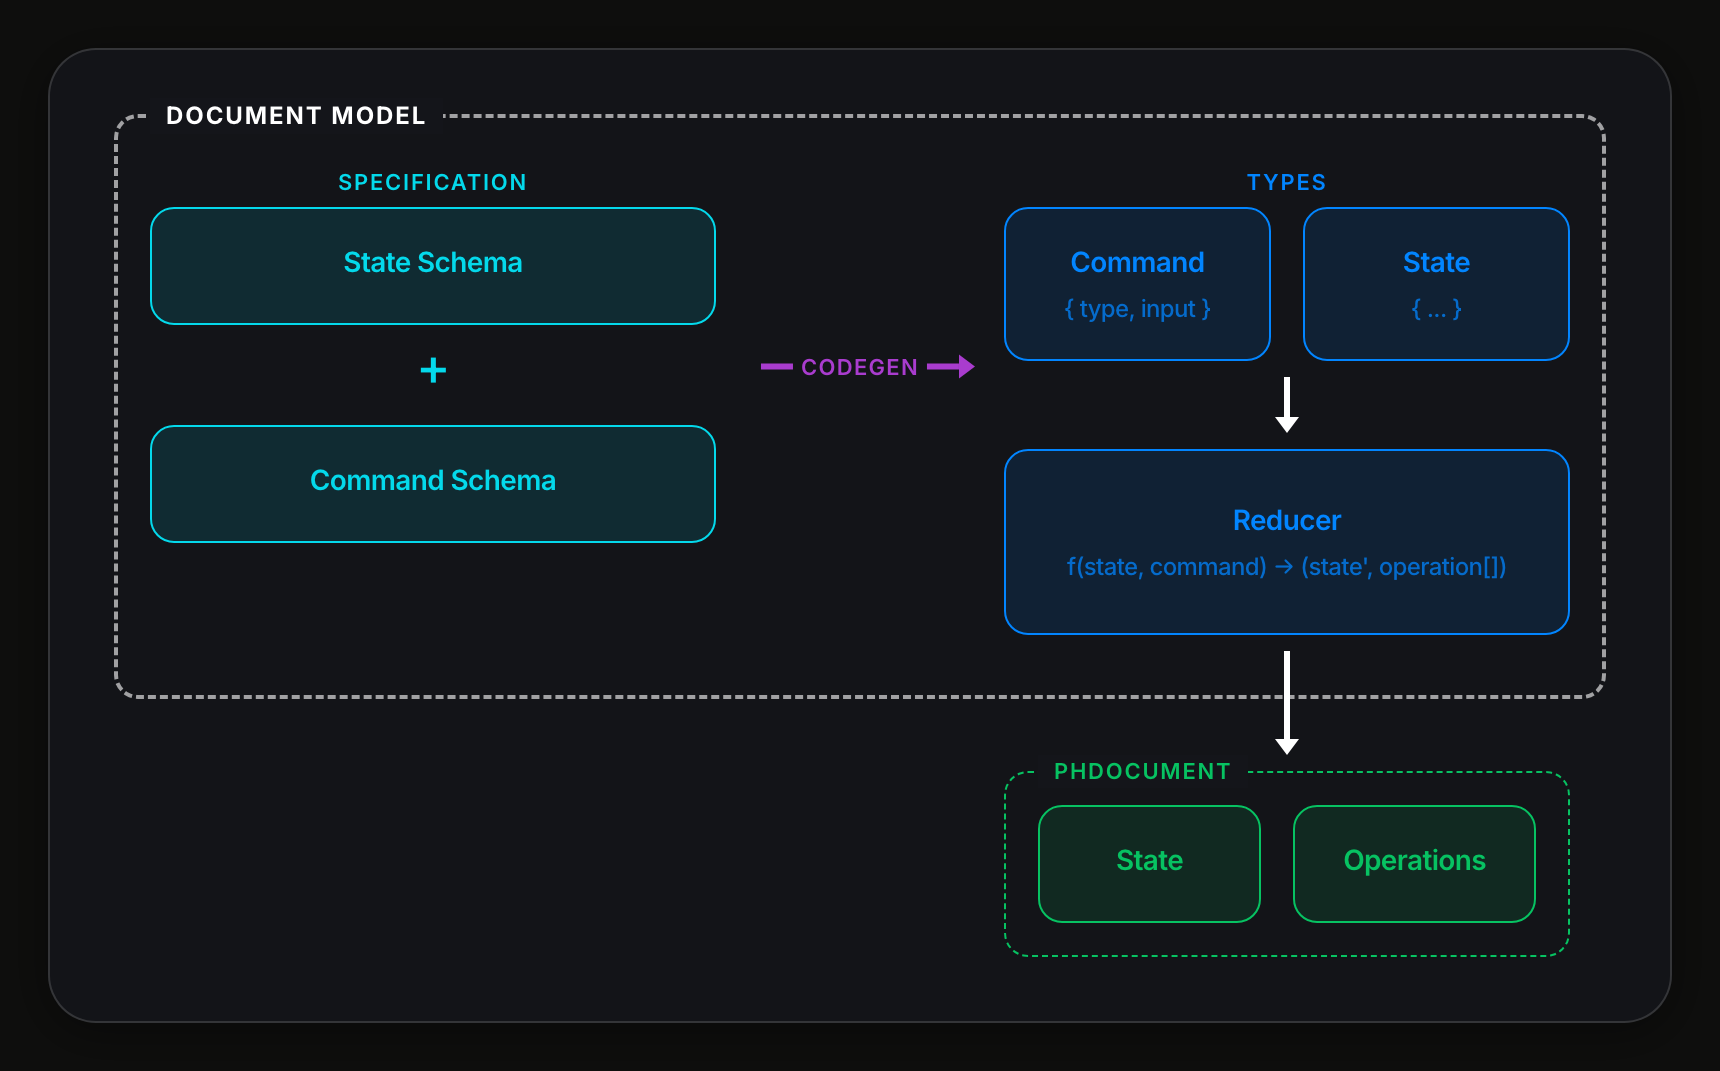
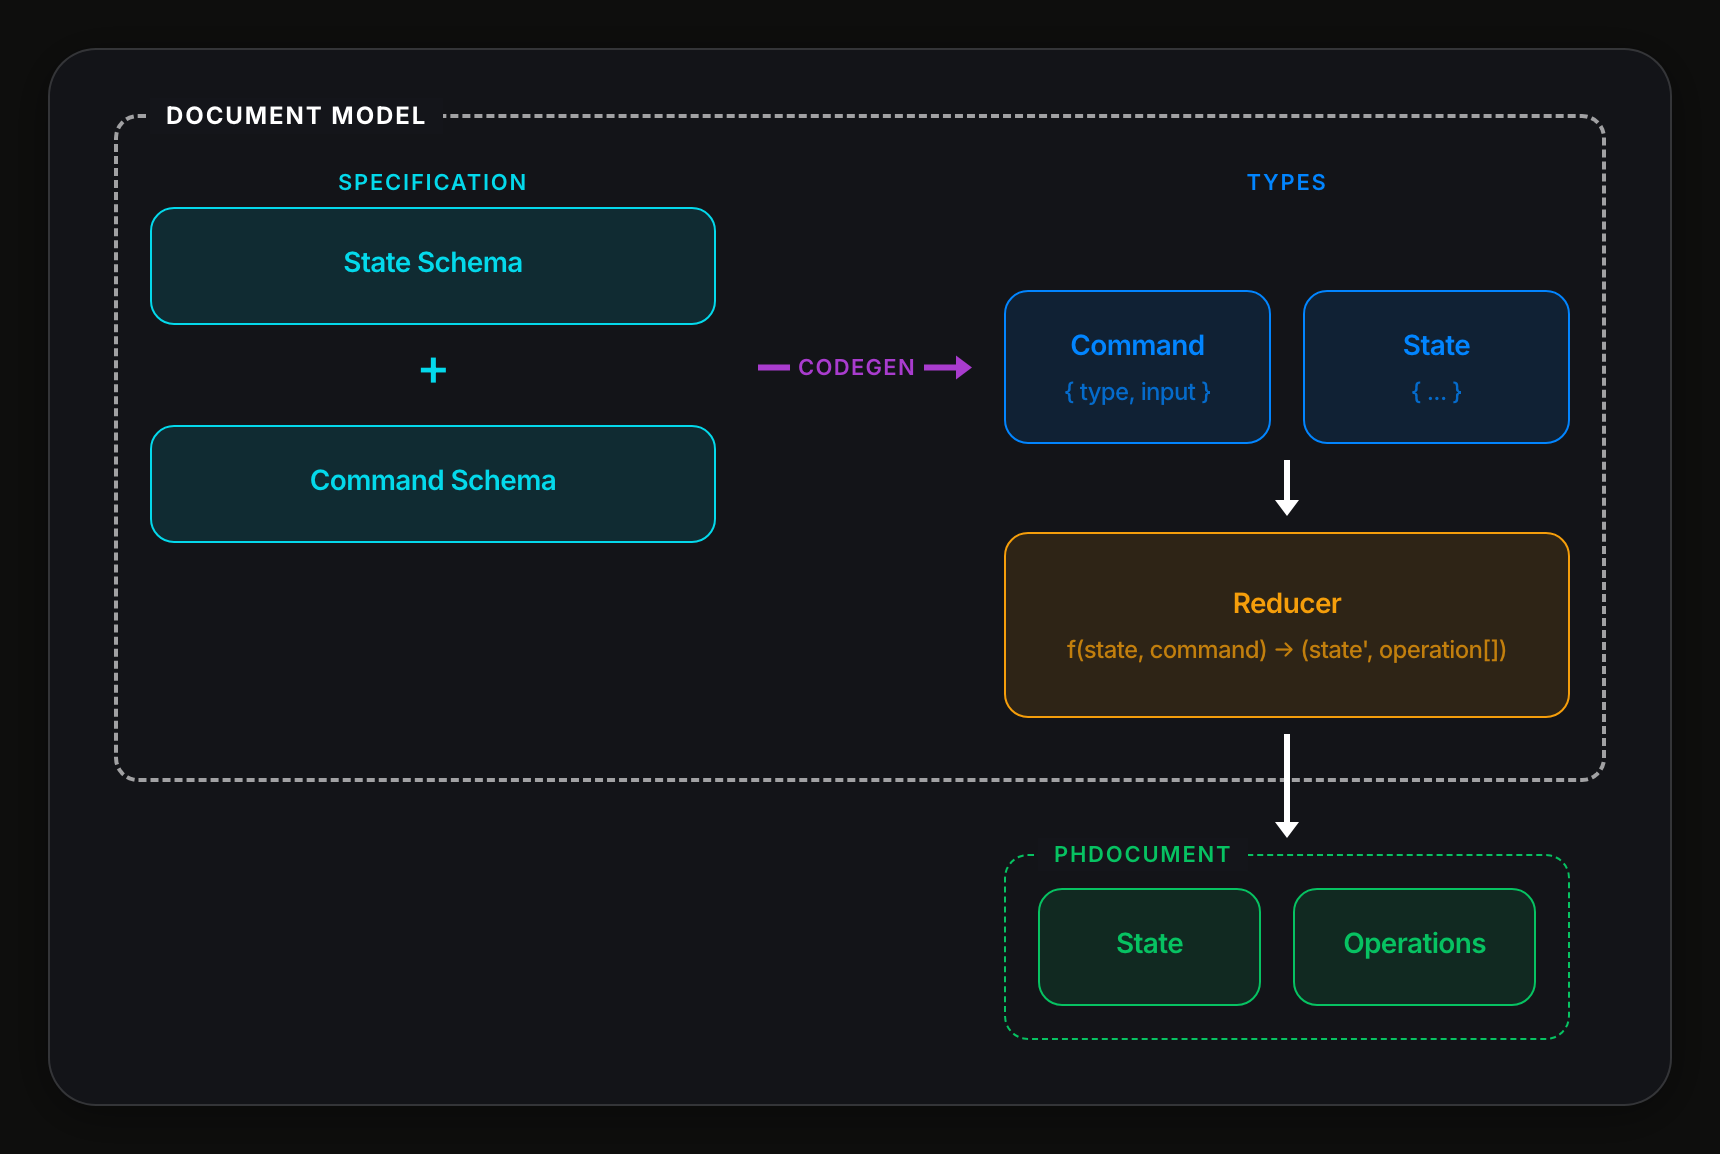
rebuild: the Document Model separates codegen from the reducer

diff --git a/diagrams/pages/document-model-architecture.html b/diagrams/pages/document-model-architecture.html
@@ -52,15 +52,14 @@
       gap: 0;
     }
 
-    /* Center bridge column — the arrow is placed on the plus's centre line by the
-       script at the bottom of the page. */
-    .col-bridge {
-      position: relative;
-    }
-    .col-bridge .h-arrow {
+    /* Center bridge column — empty; the codegen arrow hangs off the types row, which the
+       script at the bottom of the page drops onto the spec's centre line. */
+    .types-row { position: relative; }
+    .types-row .h-arrow {
       position: absolute;
-      left: 50%;
-      transform: translate(-50%, -50%);
+      top: 50%;
+      right: calc(100% + var(--space-lg));
+      transform: translateY(-50%);
     }
 
     /* The spec is a state schema AND an action schema, not one leading to the other */
@@ -87,6 +86,8 @@
     .box.accent-purple { border-color: var(--accent-purple); background: var(--accent-purple-bg); color: var(--accent-purple); }
     .box.accent-blue   { border-color: var(--accent-blue);   background: var(--accent-blue-bg);   color: var(--accent-blue); }
     .box.accent-green  { border-color: var(--accent-green);  background: var(--accent-green-bg);  color: var(--accent-green); }
+    /* The reducer is hand-written, not generated, so it does not share the types' colour */
+    .box.accent-amber  { border-color: #F59E0B; background: rgba(245, 158, 11, 0.12); color: #F59E0B; }
 
     .box-title {
       font-size: 14px;
@@ -279,18 +280,18 @@
             </div>
           </div>
 
-          <!-- Center Bridge -->
-          <div class="col-bridge">
+          <!-- Center Bridge: spacing only, the arrow itself sits with the types -->
+          <div class="col-bridge"></div>
+
+          <!-- Right Column: Reducer -->
+          <div class="col-reducer">
+           <div class="types-row" id="typesRow">
             <div class="h-arrow" id="codegenArrow">
               <div class="h-arrow-line"></div>
               <div class="h-arrow-label">Codegen</div>
               <div class="h-arrow-line has-head"></div>
             </div>
-          </div>
-
-          <!-- Right Column: Reducer -->
-          <div class="col-reducer">
-            <div class="type-group">
+            <div class="type-group" id="typeGroup">
               <div class="box accent-blue">
                 <div class="box-title">Command</div>
                 <div class="box-detail">{ type, input }</div>
@@ -300,8 +301,9 @@
                 <div class="box-detail">{ ... }</div>
               </div>
             </div>
+           </div>
             <div class="v-connector"></div>
-            <div class="box accent-blue" style="padding: var(--space-lg);">
+            <div class="box accent-amber" style="padding: var(--space-lg);">
               <div class="box-title">Reducer</div>
               <div class="box-detail">
                 f(state, command) &rarr; (state', operation[])
@@ -335,18 +337,27 @@
     </div>
   </div>
   <script>
-    // The codegen arrow leaves from the middle of the spec's "+".
-    function placeCodegenArrow() {
+    // Codegen turns the spec into the two types and nothing else, so the Command/State row
+    // drops onto the centre line of the spec's "+". The arrow rides with that row.
+    function placeCodegen() {
       var plus = document.getElementById('specPlus');
-      var arrow = document.getElementById('codegenArrow');
-      var bridge = arrow.parentElement;
-      var p = plus.getBoundingClientRect();
-      var b = bridge.getBoundingClientRect();
-      arrow.style.top = (p.top + p.height / 2 - b.top) + 'px';
+      var types = document.getElementById('typeGroup');
+      var column = document.querySelector('.col-reducer');
+
+      column.style.marginTop = '0px';
+      var drop = centreOf(plus) - centreOf(types);
+      if (drop > 0) column.style.marginTop = drop + 'px';
+
+      function centreOf(el) {
+        var r = el.getBoundingClientRect();
+        return r.top + r.height / 2;
+      }
     }
 
-    placeCodegenArrow();
-    window.addEventListener('resize', placeCodegenArrow);
+    placeCodegen();
+    // Web fonts land after first layout and move everything down, so measure again.
+    if (document.fonts && document.fonts.ready) document.fonts.ready.then(placeCodegen);
+    window.addEventListener('resize', placeCodegen);
   </script>
 </body>
 </html>

diff --git a/diagrams/pages/job-queue-executors.html b/diagrams/pages/job-queue-executors.html
@@ -441,6 +441,9 @@
     }
 
     alignAnatomy();
+    // Web fonts land after first layout and move everything down, so measure again.
+    if (document.fonts && document.fonts.ready) document.fonts.ready.then(alignAnatomy);
+    window.addEventListener('resize', alignAnatomy);
   </script>
 </body>
 </html>
